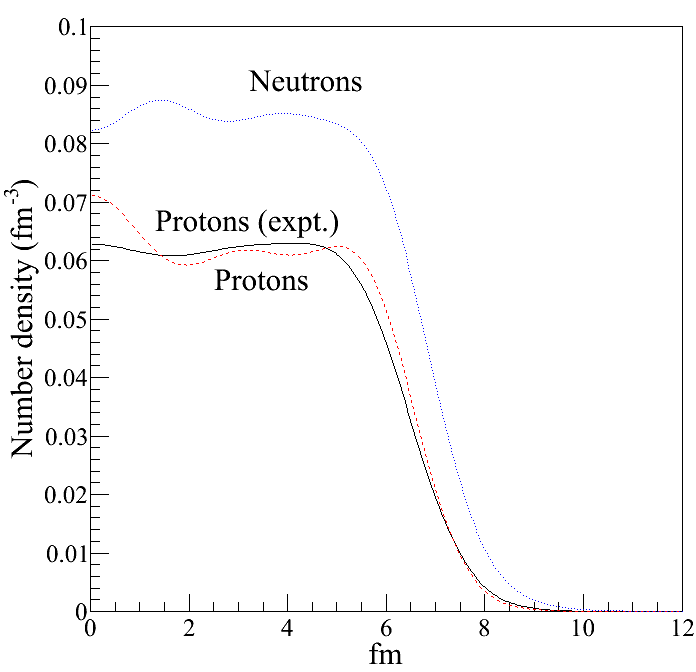
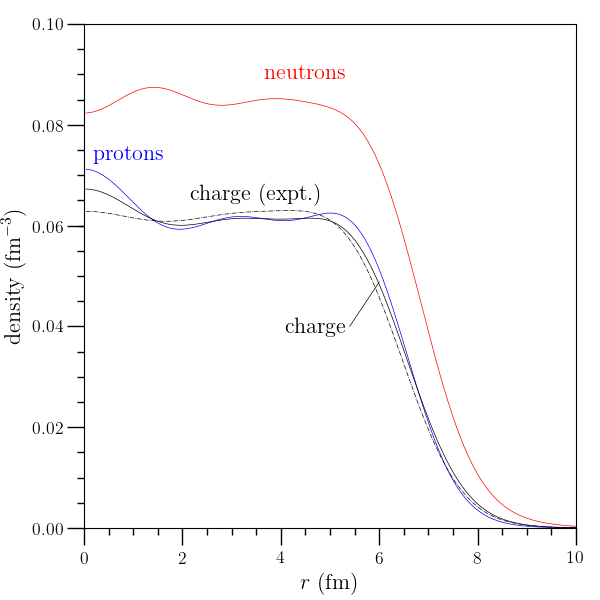
Work on example plots.

diff --git a/examples/ex_nucleus_rmf.cpp b/examples/ex_nucleus_rmf.cpp
@@ -41,8 +41,10 @@ using namespace o2scl_const;
 using namespace o2scl_hdf;
 #endif
 
-int main(int argc, char *argv[]) {
+int lead_chden_exp(std::shared_ptr<table_units<> > profiles);
 
+int main(int argc, char *argv[]) {
+  
   cout.setf(ios::scientific);
 
   test_mgr t;
@@ -105,13 +107,15 @@ int main(int argc, char *argv[]) {
   
   t.test_rel(-7.842551,rn.etot,1.0e-5,"Lead binding energy");
 
+  std::shared_ptr<table_units<> > profiles=rn.get_profiles();
+  lead_chden_exp(profiles);
+  
 #ifdef O2SCL_HDF
 
   hdf_file hf;
   hdf_file hf2;
   hf.open_or_create("ex_nucleus_rmf_prof.o2");
   hf2.open_or_create("ex_nucleus_rmf_chden.o2");
-  std::shared_ptr<table_units<> > profiles=rn.get_profiles();
   std::shared_ptr<table_units<> > charge_dens=rn.get_chden();
   hdf_output(hf,*profiles,"profiles");
   hdf_output(hf2,*charge_dens,"charge_densities");
@@ -129,3 +133,33 @@ int main(int argc, char *argv[]) {
   return 0;
 }
 // End of example
+
+int lead_chden_exp(std::shared_ptr<table_units<> > profiles) {
+  
+  // The experimental charge density for Lead 208 from de Vries, et
+  // al. At. Data Nucl. Data Tables 36 (1987) 495 using the
+  // Sum-of-Gaussians method
+  double rr[12]={0.1,0.7,1.6,2.1,2.7,3.5,4.2,
+                 5.1,6.0,6.6,7.6,8.7};
+  double qq[12]={0.003845,0.009724,0.033093,0.000120,
+                 0.083107,0.080869,0.139957,0.260892,
+                 0.336013,0.0033637,0.018729,0.000020};
+  double g=1.7/sqrt(1.5);
+  double a[12];
+  for(size_t i=0;i<12;i++) {
+    a[i]=82.0*qq[i]/2.0/pow(o2scl_const::pi,1.5)/
+      pow(g,3.0)/(1.0+2.0*rr[i]*rr[i]/g/g);
+  }
+  
+  // Add experimental profile to table
+  profiles->new_column("chden_exp");
+  for(size_t i=0;i<profiles->get_nlines();i++) {
+    double val=0.0;
+    for(size_t j=0;j<12;j++) {
+      val+=a[j]*(exp(-pow((profiles->get("r",i)-rr[j])/g,2.0))+
+		 exp(-pow((profiles->get("r",i)+rr[j])/g,2.0)));
+    }
+    profiles->set("chden_exp",i,val);
+  }
+  return 0;
+}
